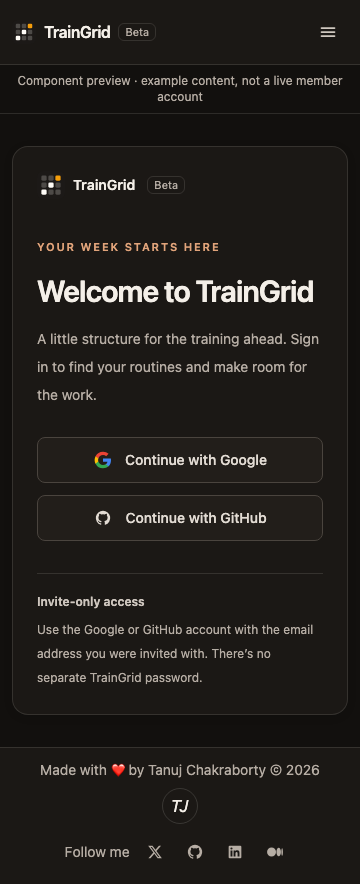
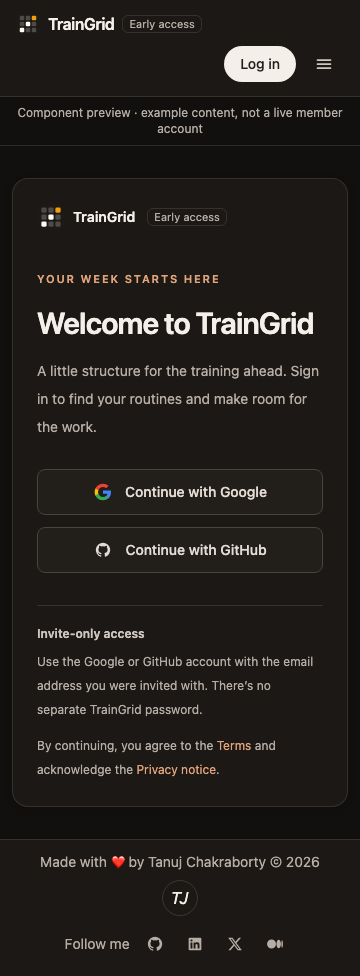
feat(login, invitations): carry "Plan the week. Train with it."
The sign-in page's side panel and the invitation email now match the
landing page:

- Login: "Plan the week. Train with it.", a line about running each
  session on the phone, and "Train it, set by set" as the third step.
- Invitation email (HTML, text and preheader): the new tagline and a
  sentence on logging sets, the rest timer and last time's numbers.
- The email unit test checks the tagline in both versions; login and
  email preview screenshots are refreshed.

diff --git a/lib/email/invitation.ts b/lib/email/invitation.ts
@@ -33,8 +33,8 @@ export function renderInvitationEmail({
   const href = escapeHtml(url.href);
   const subject = "You’re invited to TrainGrid";
   const preheader =
-    "Your training week, thoughtfully together. Join invite-only early access.";
-  const text = `${subject}\n\nPlan the week. Own the work.\n\nTrainGrid brings your weekly training planner, shared workout library and personal routines together.\n\nYou’re invited using: ${email}\n\nOpen TrainGrid: ${url.href}\n\nSign in with the Google or GitHub account whose verified email matches ${email}. There’s no separate TrainGrid password.\n\nTrainGrid is in invite-only early access. If you weren’t expecting this invitation, you can ignore it.\n\nTrainGrid · A clear plan. Space to train.`;
+    "Plan your training week, then train with it on your phone. Join invite-only early access.";
+  const text = `${subject}\n\nPlan the week. Train with it.\n\nTrainGrid brings your weekly training planner, shared workout library and personal routines together, then runs each workout on your phone: log every set, rest on a timer and see last time’s numbers.\n\nYou’re invited using: ${email}\n\nOpen TrainGrid: ${url.href}\n\nSign in with the Google or GitHub account whose verified email matches ${email}. There’s no separate TrainGrid password.\n\nTrainGrid is in invite-only early access. If you weren’t expecting this invitation, you can ignore it.\n\nTrainGrid · A clear plan. Space to train.`;
   const html = `<!doctype html>
 <html lang="en"><head><meta charset="utf-8"><meta name="viewport" content="width=device-width, initial-scale=1"><meta name="color-scheme" content="light"><title>${escapeHtml(subject)}</title>
 <style>@media only screen and (max-width:600px){.email-pad{padding:28px 20px!important}.email-heading{font-size:30px!important}}</style></head>
@@ -47,8 +47,8 @@ export function renderInvitationEmail({
 <tr><td class="email-pad" style="padding:16px 40px 40px">
 <p style="margin:0 0 16px;color:#9a4e24;font-size:11px;font-weight:bold;letter-spacing:2px;text-transform:uppercase">A clear plan. Space to train.</p>
 <h1 class="email-heading" style="margin:0 0 20px;font-size:36px;line-height:1.15;letter-spacing:-1px">You’re invited to TrainGrid.</h1>
-<p style="margin:0 0 16px;font-size:16px;line-height:26px">Plan the week. Own the work.</p>
-<p style="margin:0 0 24px;font-size:14px;line-height:24px;color:#57534e">Your weekly training planner, shared workout library and personal routines, thoughtfully together.</p>
+<p style="margin:0 0 16px;font-size:16px;line-height:26px">Plan the week. Train with it.</p>
+<p style="margin:0 0 24px;font-size:14px;line-height:24px;color:#57534e">Your weekly training planner, shared workout library and personal routines, together. When it’s time to train, run the workout on your phone: log every set, rest on a timer and see last time’s numbers.</p>
 <p style="margin:0 0 24px;padding:16px;border:1px solid #e7e0d4;border-radius:8px;font-size:14px;line-height:24px;word-break:break-all">Invited email<br><strong>${escapeHtml(email)}</strong></p>
 <table role="presentation" cellspacing="0" cellpadding="0" border="0"><tr><td bgcolor="#1c1917" style="border-radius:8px;mso-padding-alt:14px 24px"><a href="${href}" target="_blank" rel="noopener noreferrer" style="display:inline-block;padding:14px 24px;border:1px solid #1c1917;border-radius:8px;color:#fffcf7;font-size:14px;font-weight:bold;text-decoration:none">Open TrainGrid &#8599;</a></td></tr></table>
 <p style="margin:24px 0 0;font-size:14px;line-height:24px;color:#57534e">Sign in with the Google or GitHub account whose verified email matches <strong style="word-break:break-all">${escapeHtml(email)}</strong>. There’s no separate TrainGrid password.</p>

diff --git a/components/auth/LoginView.tsx b/components/auth/LoginView.tsx
@@ -144,18 +144,18 @@ export function LoginView({
             <p className="mt-8 text-4xl font-semibold leading-[1.12] tracking-tight">
               Plan the week.
               <br />
-              <span className="text-accent">Own the work.</span>
+              <span className="text-accent">Train with it.</span>
             </p>
             <p className="mt-5 text-sm leading-7 text-stone-600">
-              Your calendar, your routines, and a clear answer to “what am I
-              doing today?”
+              Your calendar and your routines, then each session on your
+              phone: every set logged, rest timed, last time in view.
             </p>
           </div>
           <ol className="space-y-4 text-sm">
             {[
               "Browse routines",
               "Plan your week",
-              "Open a planned workout",
+              "Train it, set by set",
             ].map((step, i) => (
               <li
                 key={step}

diff --git a/lib/email/invitation.test.ts b/lib/email/invitation.test.ts
@@ -14,6 +14,8 @@ describe("invitation email presentation", () => {
       expect(body).toContain("Google or GitHub");
       expect(body).toContain("verified email");
       expect(body).toContain("invite-only early access");
+      expect(body).toContain("Plan the week. Train with it.");
+      expect(body).toContain("log every set");
       expect(body).toContain("https://traingrid.example.test/login");
     }
     expect(email.html).toContain(
